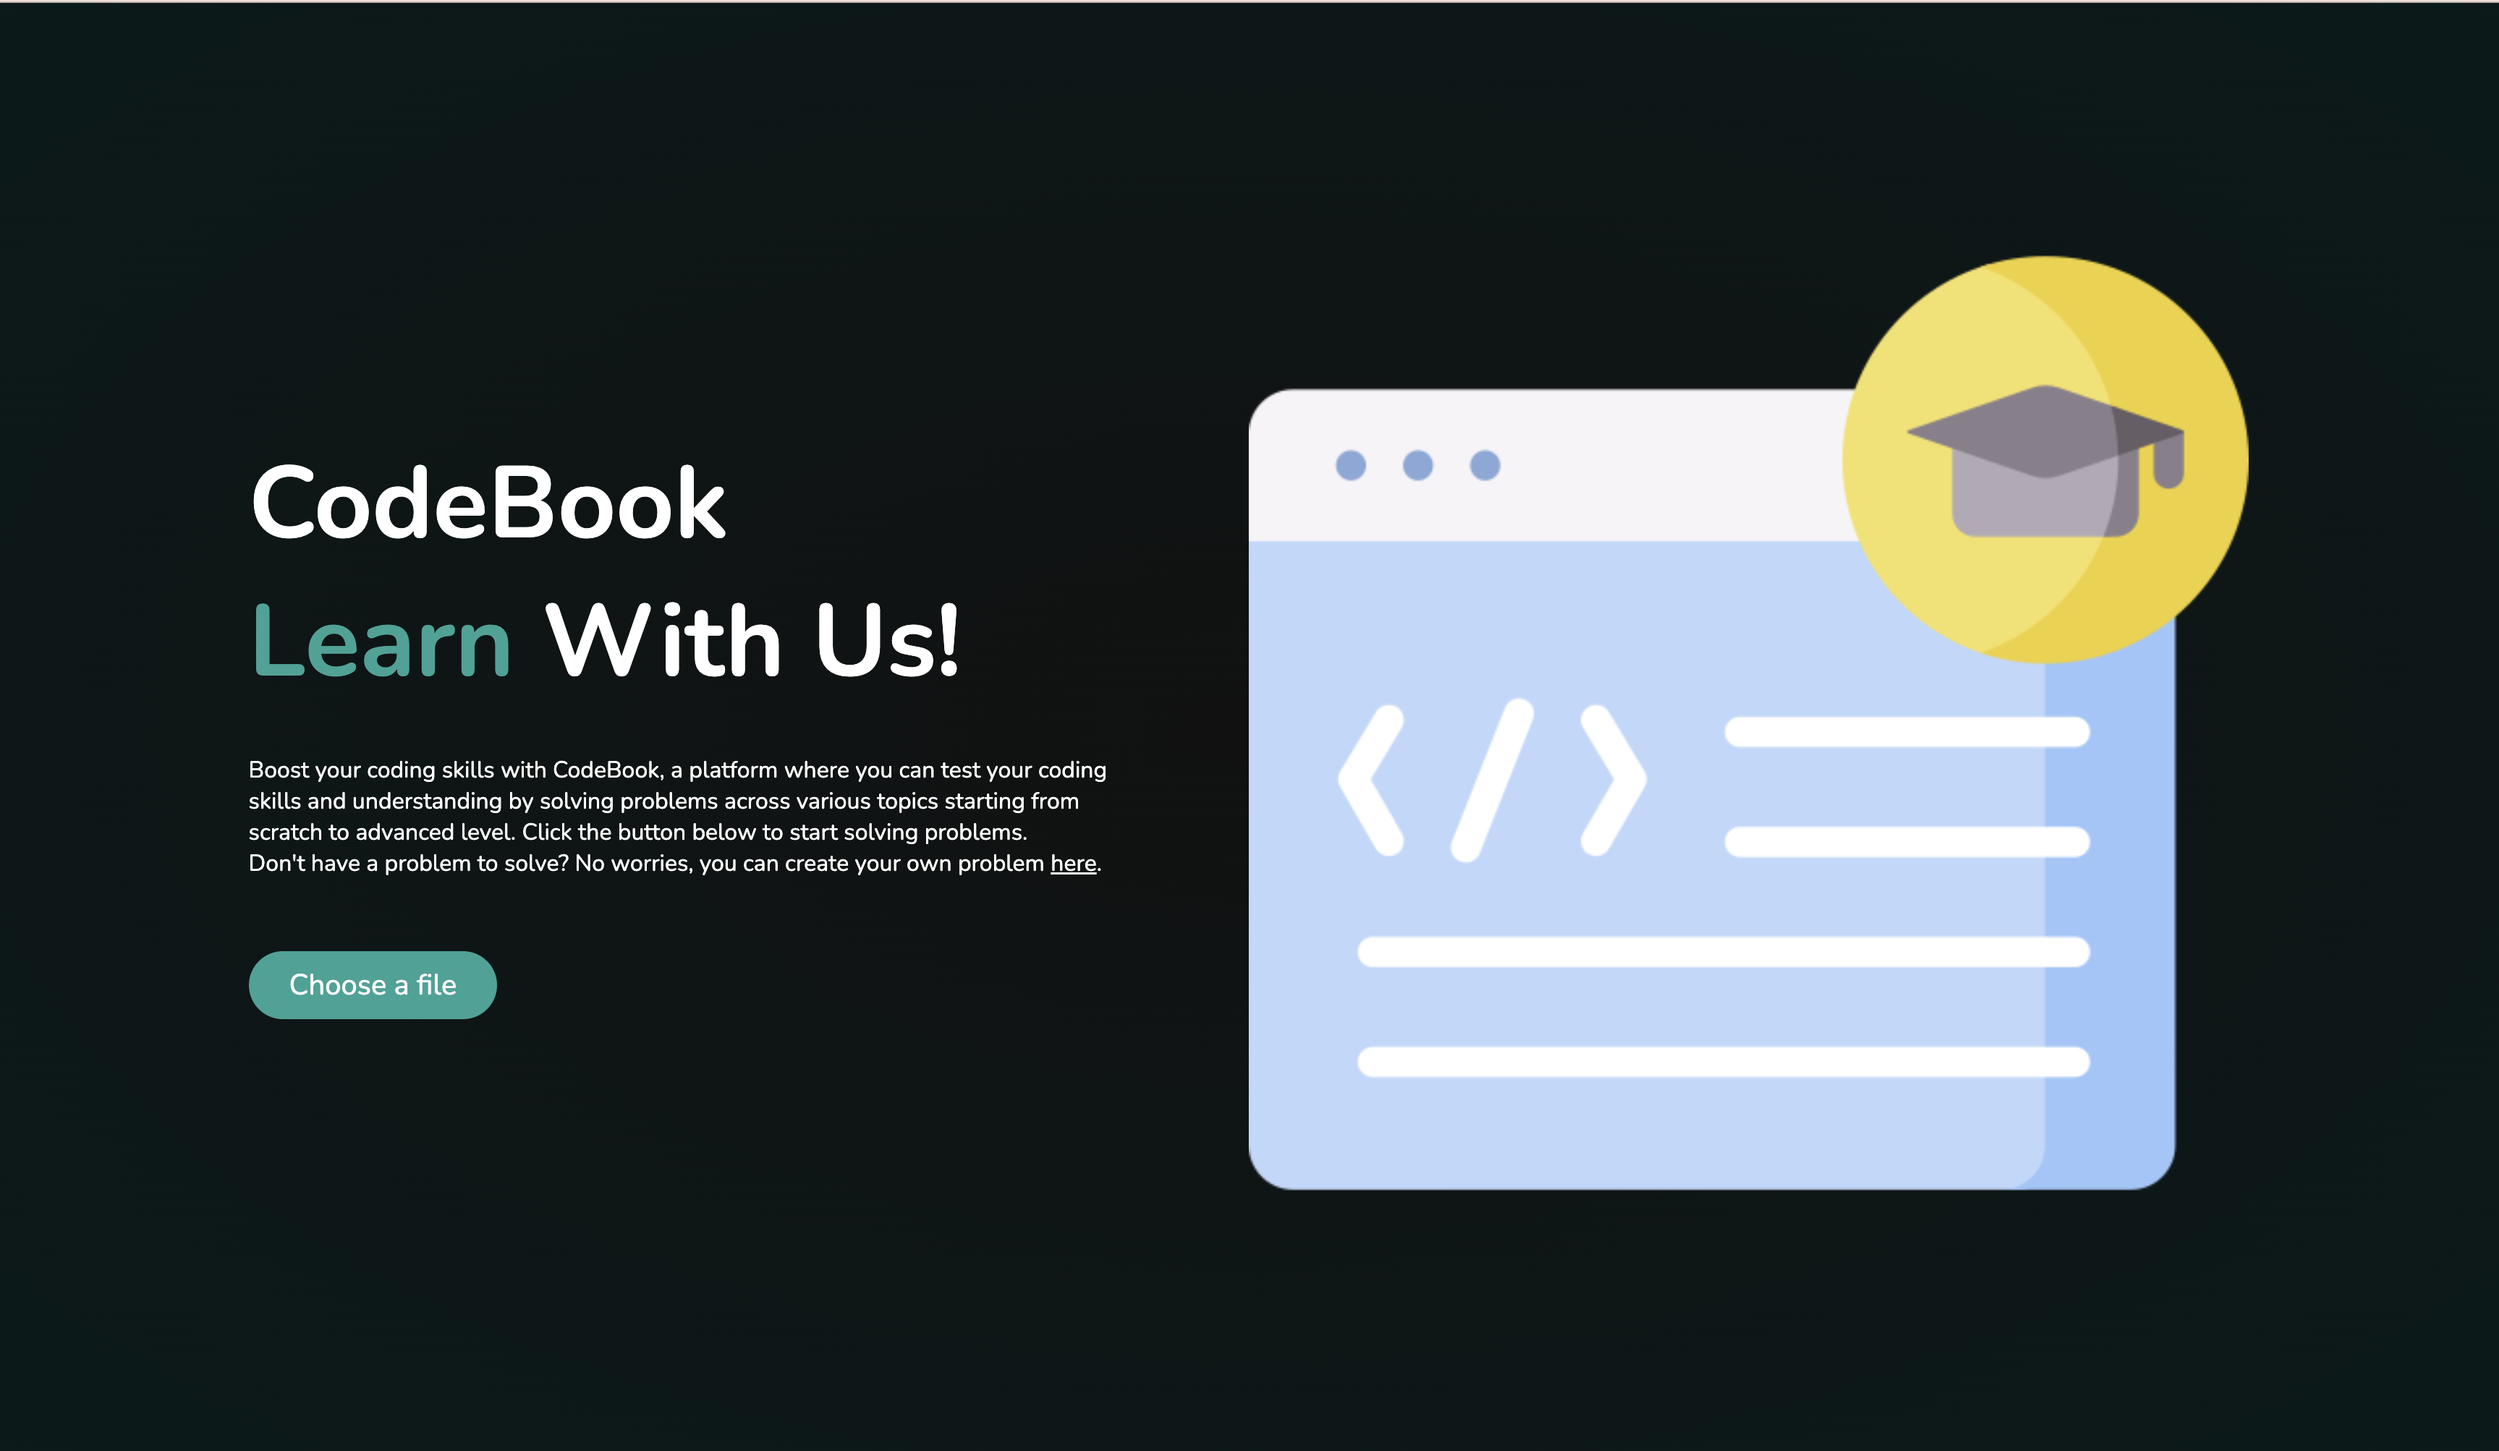
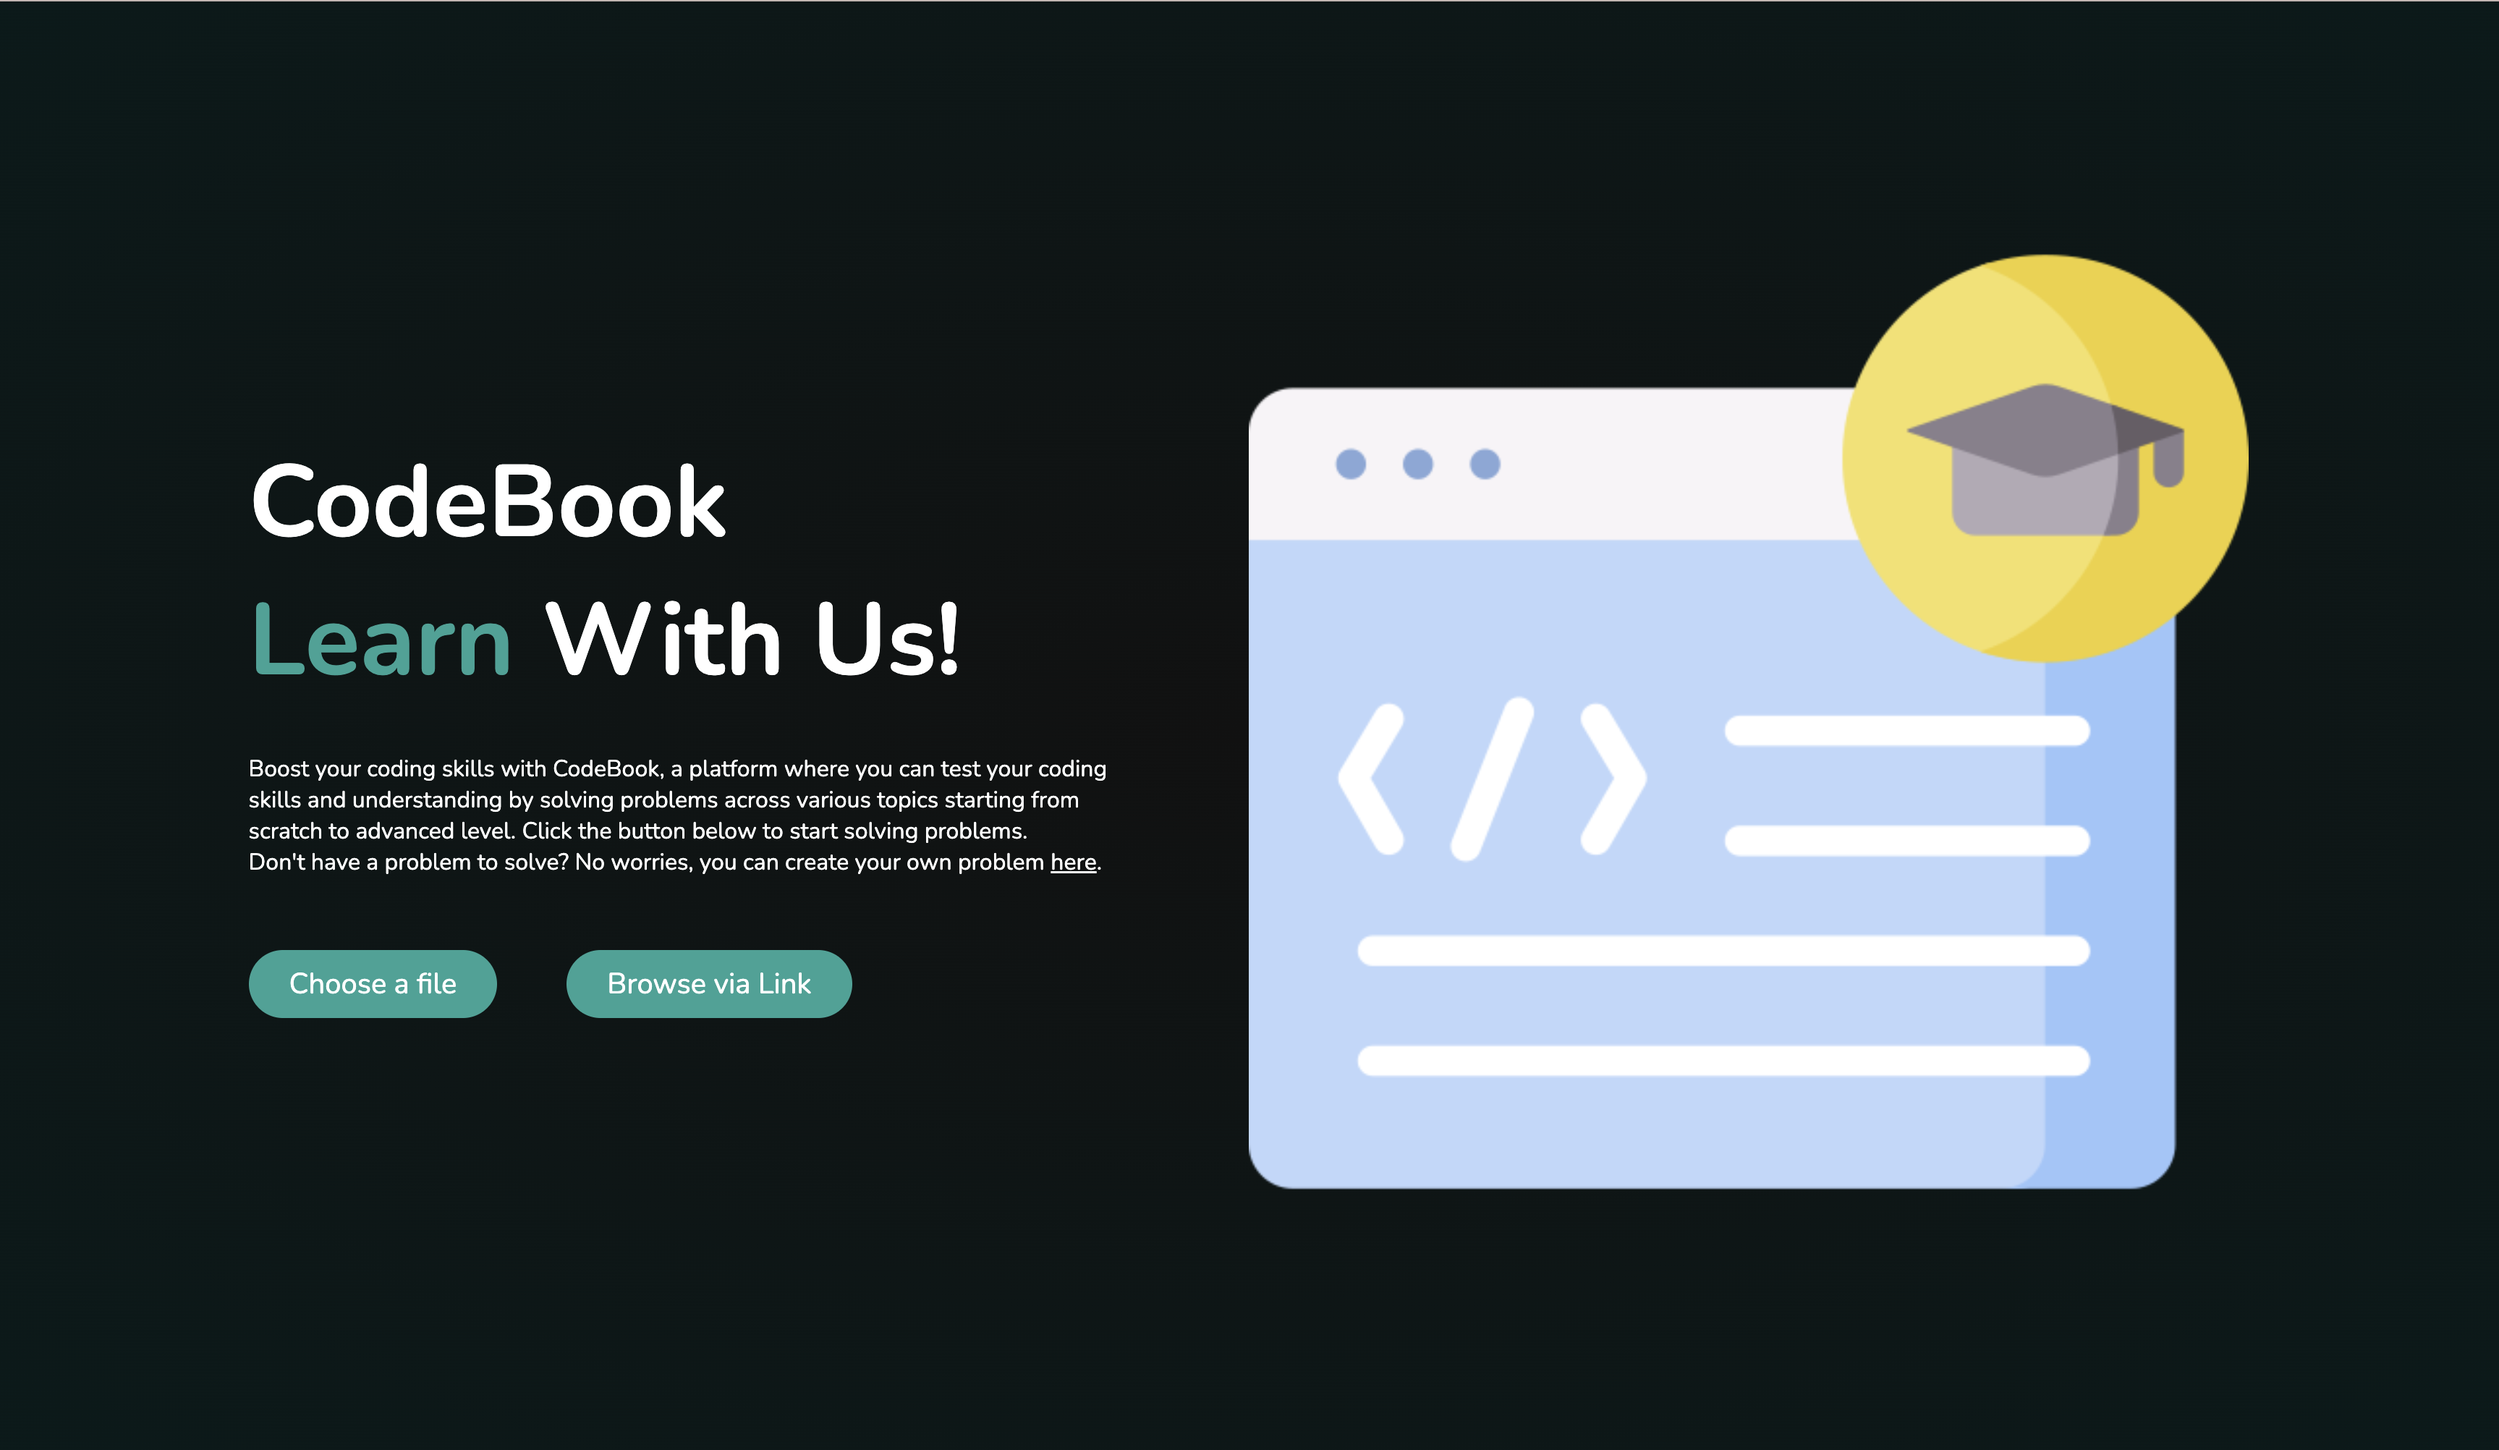
update README

Changed region(s): [[0.0929, 0.5259, 0.4337, 0.5569], [0.2169, 0.6497, 0.3408, 0.7116], [0.1859, 0.3403, 0.2169, 0.3713]]

diff --git a/README.md b/README.md
@@ -23,3 +23,8 @@ Click on the `Choose a file` button to select the problem (contained in a `*.jso
 To terminate the container, press `Ctrl + C`.  
 Write your code, play around with test-cases and have fun!  
 For any queries or suggestions, please write an email to [shubhampanchal9773@gmail.com](mailto:shubhampanchal9773@gmail.com), I'll be happy to assist you.  
+
+## Changelog
+- `2.0.0` - Introduced `Browse via Link` feature to browse problems via GitHub raw links so that you need not to download files locally.
+- `1.1.2` - Fixed reference to math functions for C on ubuntu container and some minor UI fixes (loader, score, etc).  
+- `1.1.1` - UI fixes to update expected output on multiple runs.  
